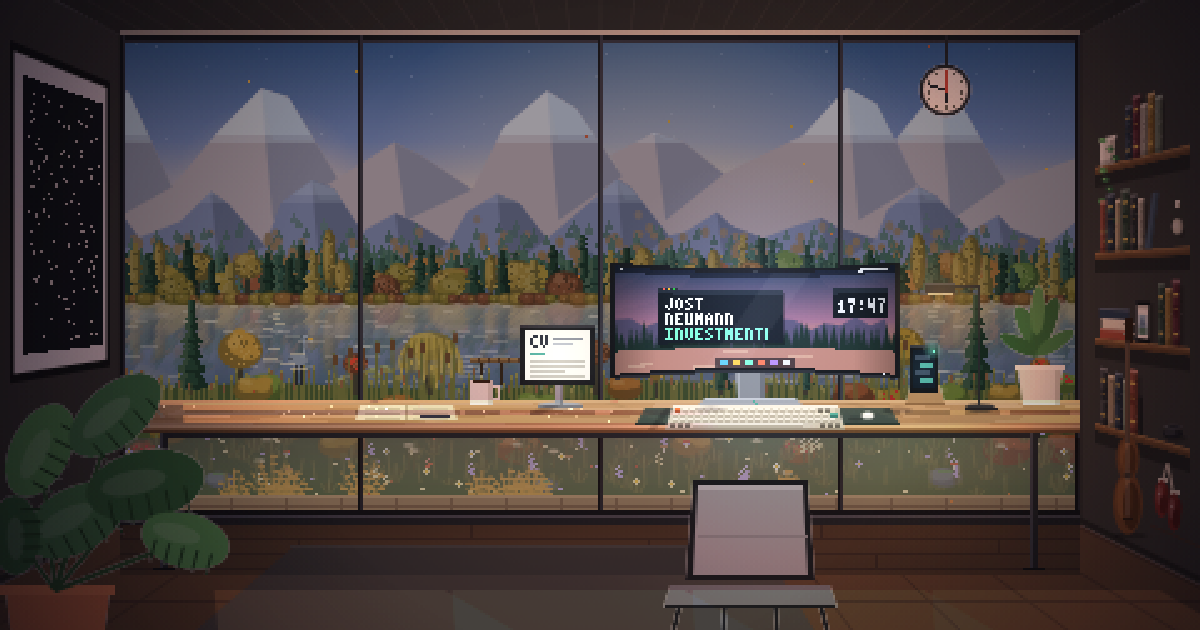
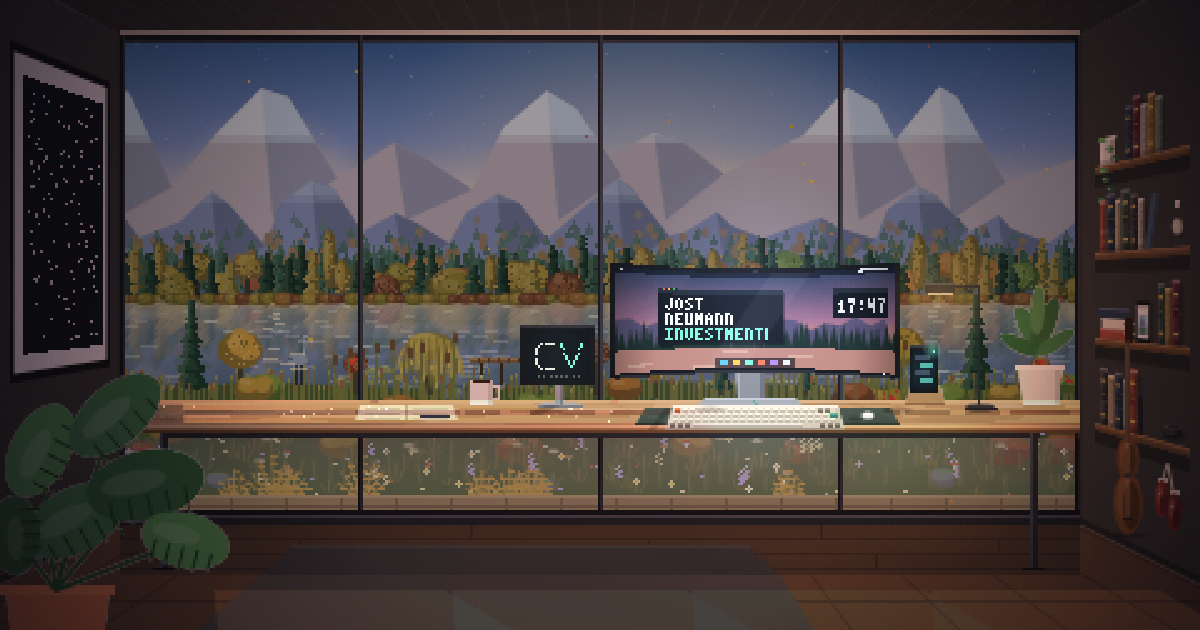
Update preview: tablet dot animation, remove wall clock and desk chair

Changed region(s): [[0.555, 0.754, 0.7092, 1.0], [0.74, 0.0905, 0.8325, 0.181], [0.4317, 0.5127, 0.4933, 0.6032]]

diff --git a/room.js b/room.js
@@ -1,7 +1,7 @@
 // Pixel-art desk scene for the personal page, in the iahpixel style: a timber cabin office in the forest, drawn at
 // 384x216 native pixels and lit through a light map (albedo x light, then an emissive pass). Sky, landscape and room
 // light follow the visitor's local time (night, dawn, day, dusk, blue hour) and the season of the date, with sunbeams,
-// a lamp cone and soft shadows, parallax between landscape, wall and desk, and a real-time wall clock. The window
+// a lamp cone and soft shadows, and parallax between landscape, wall and desk. The window
 // looks out on a slow river under a mountain panorama with a mixed forest, a willow, wildflowers, mist, a heron and fireflies. On a
 // minimal desk, four objects open the sections of the plain (LO-FI) page in a panel: the curved screen (About),
 // the shelf (Experience), the tablet (CV) and the phone (Contact).
@@ -558,11 +558,6 @@ function drawRoom(c) {
   r(c, 0, 0, W, 2, frame); r(c, 0, 2, W, 1, edge);
   for (const x of [0, 95, 191, 287, 382]) { r(c, x, 0, 2, 192, frame); r(c, x + 1, 0, 1, 192, edge); }
   r(c, 0, 190, W, 2, frame);
-  // station clock on a rod from the ceiling beam (hands are drawn every frame)
-  const K = GEO.clock;
-  r(c, K.x - .5, 0, 1, K.y - 10, '#2a2a2e');
-  ell(c, K.x, K.y, 10.5, 10.5, '#2a2a2e'); ell(c, K.x, K.y, 9, 9, '#ece6da');
-  for (let k = 0; k < 12; k++) { const a = k / 12 * TAU, rr = k % 3 ? 7.4 : 6.8; r(c, K.x + Math.sin(a) * rr - .5, K.y - Math.cos(a) * rr - .5, 1, k % 3 ? 1 : 1.6, '#6a6458'); }
 }
 
 // ---------- desk layer (albedo; shifts slightly against the wall for parallax) ----------
@@ -654,7 +649,7 @@ function drawLight(c) {
   glow(c, ...GEO.lamp.light, 140, '#ffa860', .8 * E.lamp);       // desk lamp
   glow(c, ...GEO.lamp.pool, 60, '#ffcf90', .45 * E.lamp);
   glow(c, MON.x + MON.w / 2, 112, 96, '#6a88c0', .38);           // the screen
-  glow(c, GEO.tablet[0] + GEO.tablet[2] / 2, GEO.tablet[1] + GEO.tablet[3] / 2, 30, '#fff2dc', .12);   // the tablet
+  glow(c, GEO.tablet[0] + GEO.tablet[2] / 2, GEO.tablet[1] + GEO.tablet[3] / 2, 26, '#9ae8d8', .07);   // the tablet's dark screen
   glow(c, ...GEO.kbd, 26, '#7a9ad0', .3);                        // screen light on the keyboard
   const sun = sunInfo(E);
   if (sun) {                                                     // the window, projected onto the sill and the desk by the sun
@@ -681,15 +676,41 @@ function drawVignette() {
 }
 function updateEnv() { ENV = envAt(hourNow()); drawLight(lx); drawVignette(); if (typeof updateShell === 'function') updateShell(); }
 
-// clock hands, drawn as single pixels so they stay crisp
-function drawClockHands(c) {
-  const h = hourNow(), sec = FIXED ? 0 : new Date().getSeconds(), K = GEO.clock;
-  if (K.cover) ell(c, K.x, K.y, K.cover, K.cover, K.face);       // hide the hands painted in the still
-  const hand = (turn, len, col) => { const a = turn * TAU; for (let i = 0; i <= len; i += .5) r(c, K.x + Math.sin(a) * i - .5, K.y - Math.cos(a) * i - .5, 1, 1, col); };
-  hand((h % 12) / 12, K.h, '#2a2a2e');
-  hand(((h * 60) % 60) / 60, K.m, '#2a2a2e');
-  if (!reduce) hand(sec / 60, K.s, '#c84a3a');
-  r(c, K.x - .5, K.y - .5, 1, 1, '#c84a3a');
+// ---------- tablet: dots that keep re-forming the CV (in the manner of the dot print on the wall) ----------
+// 46 dots on the 26 x 20 screen move through six forms: the letters CV, a page of text, a portrait, a briefcase
+// (experience), a mortarboard (education) and a career timeline. Tone 0 dim, 1 cream, 2 mint accent.
+const TAB_N = 46, TAB_HOLD = 2.2, TAB_MOVE = 1.1;
+const tabAlong = (pts, n, tone) => {
+  const seg = []; let L = 0;
+  for (let i = 1; i < pts.length; i++) { const d = Math.hypot(pts[i][0] - pts[i - 1][0], pts[i][1] - pts[i - 1][1]); seg.push([pts[i - 1], pts[i], L, d]); L += d; }
+  return Array.from({ length: n }, (_, k) => { const q = L * k / Math.max(1, n - 1), [a, b, l0, d] = seg.find(z => q <= z[2] + z[3] + 1e-9) || seg[seg.length - 1], u = d ? (q - l0) / d : 0; return [a[0] + (b[0] - a[0]) * u, a[1] + (b[1] - a[1]) * u, tone]; });
+};
+const tabRing = (cx, cy, rx, ry, n, tone, a0 = 0, a1 = TAU) => Array.from({ length: n }, (_, k) => { const a = a0 + (a1 - a0) * k / (a1 - a0 >= TAU ? n : n - 1); return [cx + rx * Math.cos(a), cy + ry * Math.sin(a), tone]; });
+const tabFit = pts => { const out = pts.slice(0, TAB_N); while (out.length < TAB_N) out.push(pts[out.length % pts.length]); return out.sort((a, b) => a[0] - b[0] || a[1] - b[1]); };
+const TAB_SHAPES = [
+  // the letters C and V
+  tabFit([...tabAlong([[11, 5], [6, 5], [4, 7], [4, 13], [6, 15], [11, 15]], 20, 1), ...tabAlong([[14, 5], [18, 15], [22, 5]], 18, 2), ...tabAlong([[5, 17.5], [21, 17.5]], 8, 0)]),
+  // a page with a heading and lines of text
+  tabFit([...tabAlong([[7, 2], [19, 2], [19, 18], [7, 18], [7, 2]], 20, 0), ...tabAlong([[9, 5], [15, 5]], 5, 2), ...[7.5, 10, 12.5, 15].flatMap((y, i) => tabAlong([[9, y], [i % 2 ? 15 : 17, y]], 5, 1))]),
+  // a portrait: head and shoulders in a frame
+  tabFit([...tabRing(13, 7, 3, 3, 14, 1), ...tabRing(13, 18, 7, 5, 16, 1, Math.PI, TAU), ...tabAlong([[3, 18.5], [23, 18.5]], 6, 0), ...tabAlong([[19.5, 3], [23, 3]], 3, 2), ...tabAlong([[19.5, 5], [22, 5]], 3, 0)].slice(0, TAB_N)),
+  // a briefcase: experience
+  tabFit([...tabAlong([[4, 7], [22, 7], [22, 17], [4, 17], [4, 7]], 28, 1), ...tabAlong([[10, 7], [10, 4], [16, 4], [16, 7]], 8, 0), ...tabAlong([[4, 11], [22, 11]], 7, 0), ...[[12.5, 11], [13.5, 11], [13, 12]].map(([x, y]) => [x, y, 2])]),
+  // a mortarboard with its tassel: education
+  tabFit([...tabAlong([[13, 3], [23, 8], [13, 12], [3, 8], [13, 3]], 26, 1), ...tabAlong([[7, 10], [7, 15], [13, 17], [19, 15], [19, 10]], 14, 0), ...tabAlong([[21, 9], [21, 15]], 5, 2), [21, 16, 2]]),
+  // a career timeline: an axis with milestones that rise
+  tabFit([...tabAlong([[2, 16], [24, 16]], 16, 0), ...[[4, 13], [9, 11], [14, 9], [19, 6], [23, 4]].flatMap(([x, y], i) => [...tabRing(x, y, 1.3, 1.3, 4, i === 4 ? 2 : 1), ...tabAlong([[x, y + 1.5], [x, 15.5]], 2, 0)])])
+];
+function drawTabletDots(c, t, tx, ty, tw, th) {
+  r(c, tx, ty, tw, th, '#15171d');
+  const n = TAB_SHAPES.length, cyc = TAB_HOLD + TAB_MOVE, k = reduce ? 0 : Math.floor(t / cyc) % n, ph = reduce ? 0 : (t % cyc) - TAB_HOLD;
+  const a = TAB_SHAPES[k], b = TAB_SHAPES[(k + 1) % n], e = ph <= 0 ? 0 : (q => q < .5 ? 4 * q * q * q : 1 - Math.pow(-2 * q + 2, 3) / 2)(ph / TAB_MOVE);
+  const COL = ['#5f5b55', '#e9e3d6', '#7ff5d2'];
+  for (let i = 0; i < TAB_N; i++) {
+    const p0 = a[i], p1 = b[i], wob = e > 0 && e < 1 ? Math.sin(i * 1.7 + t * 6) * .6 * Math.sin(e * Math.PI) : 0;
+    const x = p0[0] + (p1[0] - p0[0]) * e + wob, y = p0[1] + (p1[1] - p0[1]) * e - wob * .5, tone = e < .5 ? p0[2] : p1[2];
+    if (x >= 0 && x < tw && y >= 0 && y < th) r(c, tx + x, ty + y, 1, 1, COL[tone]);
+  }
 }
 
 // ---------- emissive pass ----------
@@ -734,13 +755,10 @@ function drawEmissive(c, t, hover) {
   c.globalCompositeOperation = 'source-over';
   // LEDs
   r(c, MON.x + MON.w - 5, MON.cy + MON.h0 / 2 + 2, 1, 1, '#e8f0ff');
-  // tablet: the CV as a document
+  // tablet: dots re-forming the CV
   { const [tx, ty, tw, th] = GEO.tablet;
-    r(c, tx, ty, tw, th, '#f4f1ea');
-    text(c, 'CV', tx + 2, ty + 2, '#2a2e38'); r(c, tx + 11, ty + 3, tw - 14, 1, '#8a8e98'); r(c, tx + 11, ty + 5, tw - 18, 1, '#b4b8c0');
-    r(c, tx + 2, ty + 9, 6, 1, '#4fa898');
-    for (let i = 0; ty + 12 + i * 2 < ty + th - 1; i++) r(c, tx + 2, ty + 12 + i * 2, i % 3 === 2 ? tw - 12 : tw - 4, 1, '#c4c0b6');
-    c.globalCompositeOperation = 'lighter'; glow(c, tx + tw / 2, ty + th / 2, 22, '#fff2dc', .1); c.globalCompositeOperation = 'source-over'; }
+    drawTabletDots(c, t, tx, ty, tw, th);
+    c.globalCompositeOperation = 'lighter'; glow(c, tx + tw / 2, ty + th / 2, 20, '#7ff5d2', .06); c.globalCompositeOperation = 'source-over'; }
   // phone: a short conversation and a pulsing notification
   { const [qx, qy, qw, qh] = GEO.phone;
     r(c, qx, qy, qw, qh, '#121a24');
@@ -874,7 +892,7 @@ if (QS.get('export') === 'reference') {
 }
 // ---------- room shell: one-point perspective around the back wall (the 384x216 scene above) ----------
 // The displayed canvas is 480x270; the back wall sits at (OX, OY). Ceiling beams, side walls and floor planks run
-// towards the vanishing point; a desk chair and a monstera in the foreground frame the view and move with the parallax.
+// towards the vanishing point; a monstera in the foreground frames the view and move with the parallax.
 const VPX = 240, VPY = 120;
 const toY = (x, y, yT) => VPX + (x - VPX) * (yT - VPY) / (y - VPY);          // x on the ray from VP through (x, y), at height yT
 const toX = (x, y, xT) => VPY + (y - VPY) * (xT - VPX) / (x - VPX);          // y on the same ray, at x = xT
@@ -1078,13 +1096,6 @@ function drawShellBack(c) {
 }
 
 function drawShellFront(c) {
-  // modern desk chair seen from behind: grey upholstery on a slim black frame
-  ell(c, 300, VH - 2, 34, 5, 'rgba(20,10,6,.35)');
-  for (const [a, b] of [[[272, 247], [266, 272]], [[328, 247], [334, 272]], [[290, 248], [288, 272]], [[310, 248], [312, 272]]]) strokePath(c, [a, b], '#1c1c20', 2);
-  poly(c, [[268, 240], [332, 240], [335, 249], [265, 249]], '#6e6e74'); r(c, 266, 248, 68, 1, '#1c1c20');
-  poly(c, [[277, 198], [323, 198], [326, 238], [274, 238]], '#1c1c20');
-  poly(c, [[279, 200], [321, 200], [323, 236], [277, 236]], '#8e8e94');
-  r(c, 279, 200, 42, 2, '#a8a8ae'); r(c, 279, 220, 44, 1, '#7e7e84');
   // monstera in a terracotta pot, bottom left
   poly(c, [[2, 242], [44, 242], [40, 272], [6, 272]], '#b86a46'); r(c, 0, 240, 46, 4, '#c8784f');
   const LV = [[30, 214, 22, 13, -.5, '#3e7046'], [58, 200, 24, 14, -.2, '#2f5a36'], [16, 186, 20, 12, -1.1, '#4f8a50'], [46, 172, 22, 12, -.7, '#3e7046'], [74, 222, 18, 11, .25, '#4f8a50'], [6, 220, 16, 10, -1.6, '#2f5a36']];
@@ -1130,7 +1141,7 @@ function render(t) {
   o.clearRect(0, 0, W, H);
   drawOutside(o, t);
   ax.globalCompositeOperation = 'source-over';
-  ax.clearRect(0, 0, W, H); ax.drawImage(ROOM, 0, 0); drawClockHands(ax); ax.drawImage(DESKL, DDX, DDY);
+  ax.clearRect(0, 0, W, H); ax.drawImage(ROOM, 0, 0); ax.drawImage(DESKL, DDX, DDY);
   mx.clearRect(0, 0, W, H); mx.drawImage(A, 0, 0);
   ax.globalCompositeOperation = 'multiply'; ax.drawImage(L, 0, 0);
   ax.globalCompositeOperation = 'destination-in'; ax.drawImage(MASK, 0, 0);

diff --git a/index.html b/index.html
@@ -285,6 +285,6 @@
 
   <script src="topo.js?v=2026-10-23"></script>
   <script src="dots.js?v=2026-10-23"></script>
-  <script src="room.js?v=2026-10-23-dots"></script>
+  <script src="room.js?v=2026-10-23-tabdots"></script>
 </body>
 </html>
